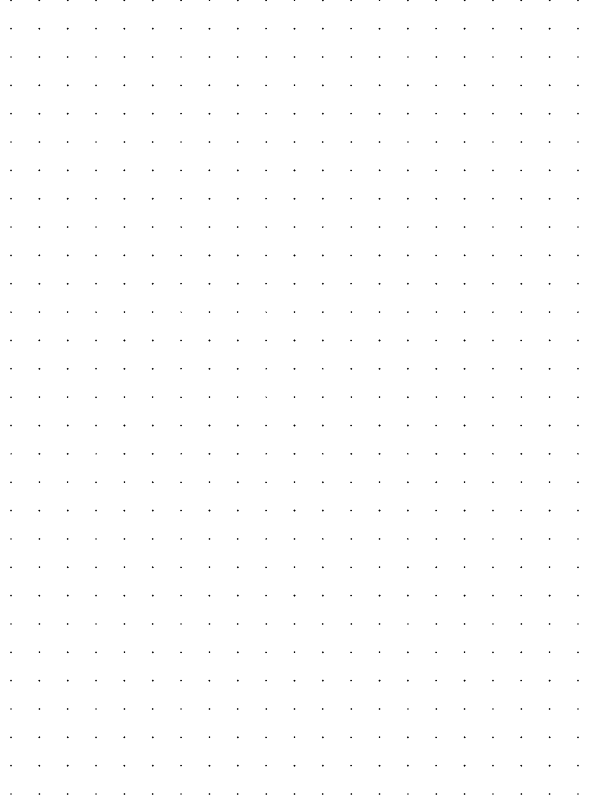
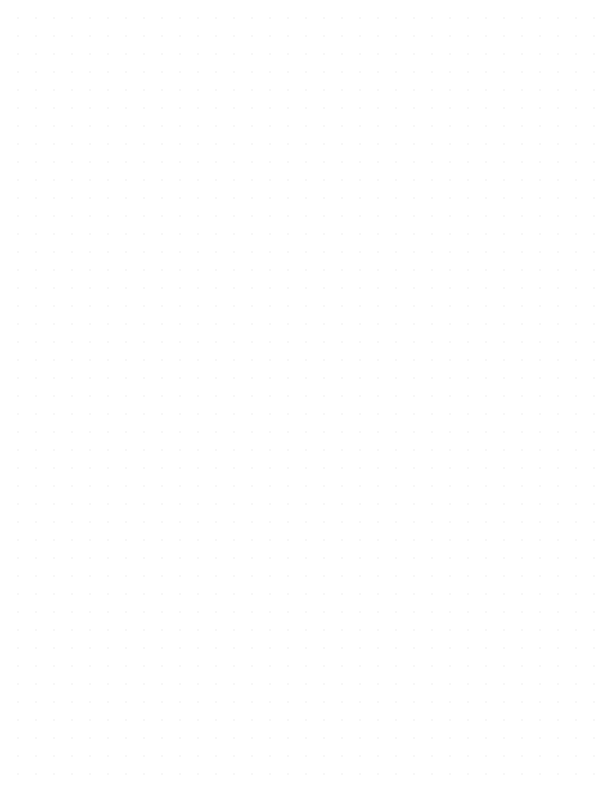
resolving conflict

diff --git a/src/App.css b/src/App.css
@@ -106,8 +106,8 @@ textarea {
     border: none;
     resize: none;
     box-shadow: rgba(35, 57, 91, 0.19) 3px 10px 20px, rgba(35, 57, 91, 0.19) 3px 6px 6px;
-    /* background-image: url(./assets/dotted-grid.png); */
-    /* background-position: center; */
+    background-image: url(./assets/dotted-grid.png);
+    background-position: center;
 }
 .star {
     color: #23395B;
@@ -247,6 +247,8 @@ textarea:placeholder-shown {
 .dark-mode label[for="toggleMenu"] {
     color: white;
 }
+
+/* responsive design styles */
 @media (max-width: 1028px) {
     label[for="toggleMenu"] {
         top: 8%;
@@ -263,6 +265,7 @@ textarea:placeholder-shown {
         width: 80%;
     }
 }
+
 @media (max-width: 800px) {
     .logoContainer {
         width: 50%;
@@ -304,34 +307,35 @@ textarea:placeholder-shown {
         font-size: 0.8rem;
     }
 }
+
 @media (max-width: 660px) {
-input {
-    width: 250px
-}
-label[for="toggleMenu"] {
-    top: 40px;
-    font-size: 0.8rem;
-}
-.page {
-    padding: 6px;
-    right: 7px;
-}
-.clock {
-    padding: 8px;
-    right: 7px;
-}
-.edit {
-    padding: 8px;
-    right: 18px;
-}
-.adjust {
-    padding: 8px;
-    left: -25px;
-}
-.save {
-    padding: 7px;
-    left: -29px;
-}
+    input {
+        width: 250px
+    }
+    label[for="toggleMenu"] {
+        top: 40px;
+        font-size: 0.8rem;
+    }
+    .page {
+        padding: 6px;
+        right: 7px;
+    }
+    .clock {
+        padding: 8px;
+        right: 7px;
+    }
+    .edit {
+        padding: 8px;
+        right: 18px;
+    }
+    .adjust {
+        padding: 8px;
+        left: -25px;
+    }
+    .save {
+        padding: 7px;
+        left: -29px;
+    }
 }
 /* @media (max-height: 540px) {
 } */
